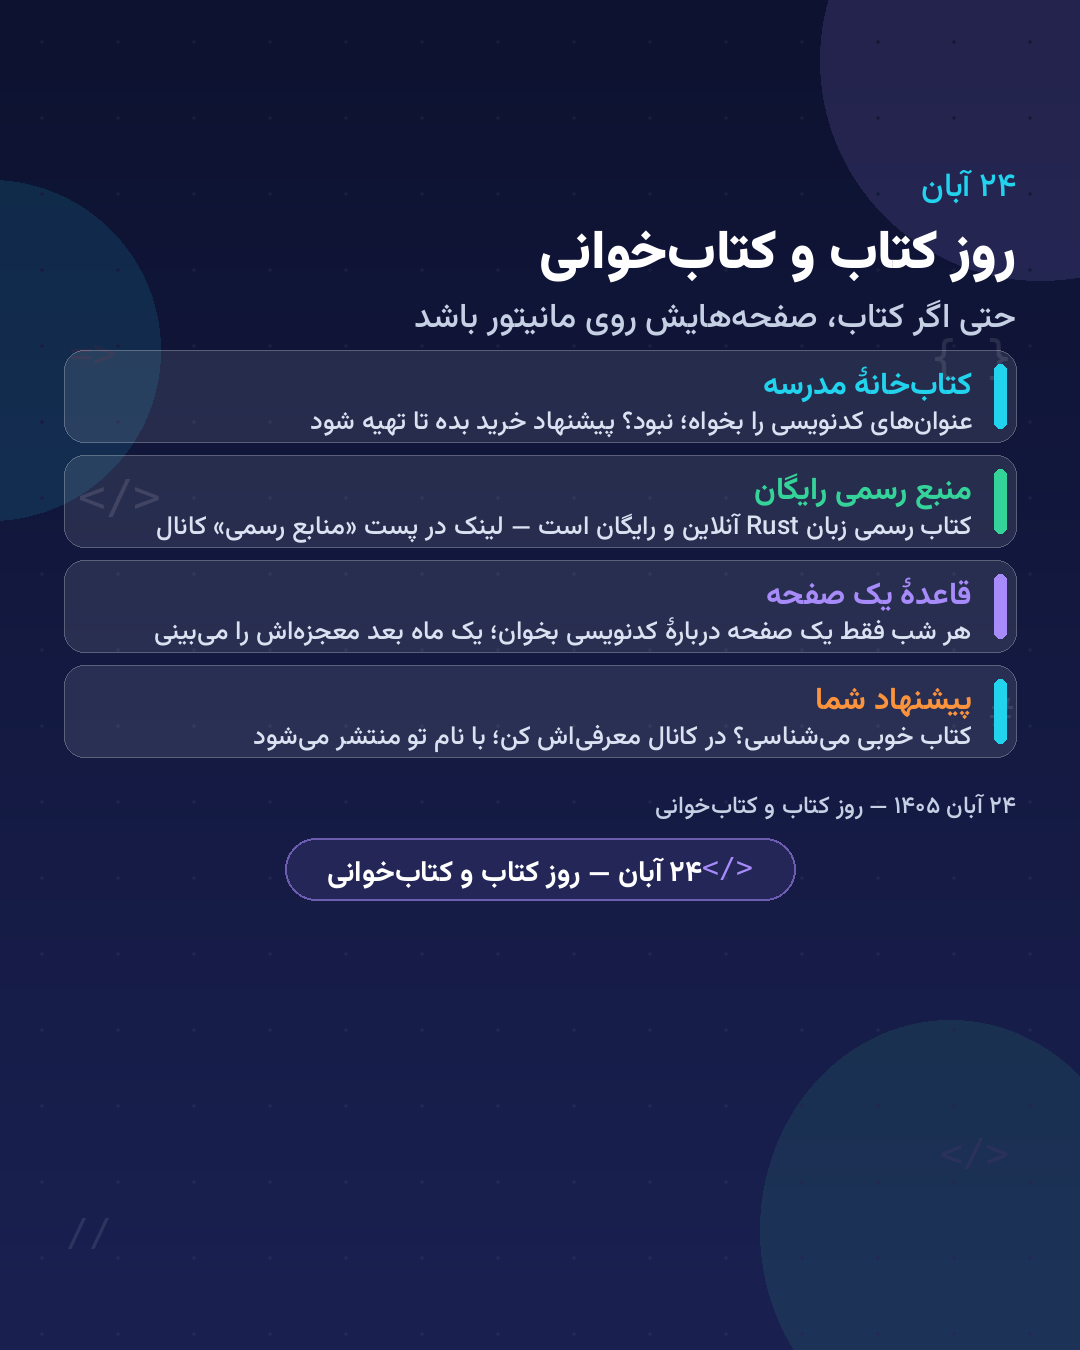
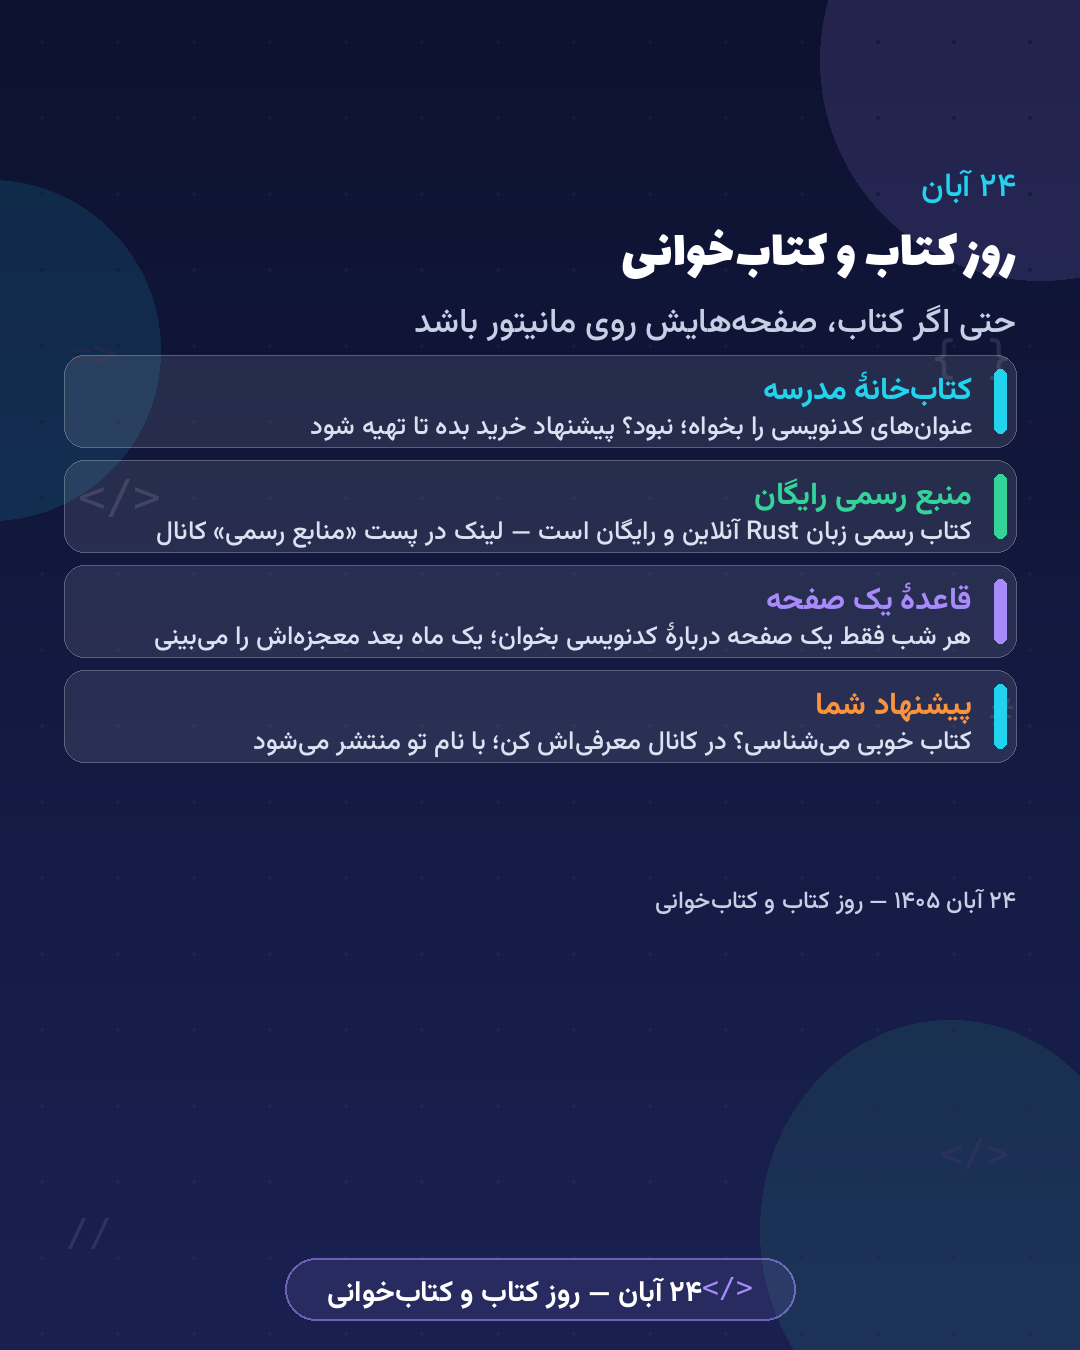
gardesh 16: font-e onvan-e poster ha -> Lalezar; chip-e daste az aks-ha hazf shod; caption-e bazi ba amoozesh-e kamel; pooster-e ketab baz-saz shod

diff --git a/channels/coding/content/inventory.md b/channels/coding/content/inventory.md
@@ -157,3 +157,18 @@ message_id) بهطور خودکار در `meta.json` همان پست و در 
 | — | بات | شاخهٔ web: mar-kodnevis.html جدید + **سوئیچ کش سرویسورکر به v2** (تا نصبهای قبلی نسخهٔ تازه بگیرند) | خلاقانه (نگهداری) | ✅ push (060d035) |
 
 **درسهای گردش:** ۱) تصویر AI هرگز برای متن فارسی — فونت خراب میشود؛ فقط پوستر خودمان. ۲) هر کتاب معرفیشده باید واقعی و قابلراستیآزی باشد. ۳) در صفحات HTML، اندازهگیری کانواس بعد از اعمال کلاسهای چیدمان انجام شود؛ فونت وزیرمتن از این پس در همهٔ بازیها جاسازی میشود.
+
+### ثبتهای ۱۴۰۵-۰۷-۳۱ (گردش ۱۶) — فونت عنوان پوسترها عوض شد (لالهزار) + چیپ دسته از عکسها حذف شد + آموزش کامل در متن پست بازی
+
+| شناسه | نویسنده | موضوع | دستهٔ داخلی | وضعیت |
+|---|---|---|---|---|
+| ۳۲ | بات | عکس بازی نسخهٔ ۳ — عنوان با وزیرمتنبلک (ظاهر ماژیکی/خراب به نظر سردبیر آمد) | خلاقانه | 🗑 **حذف شد (ok:true)** |
+| ۳۴ | بات | فایل بازی نسخهٔ ۳ | خلاقانه | 🗑 **حذف شد (ok:true)** |
+| ۳۵ | بات | عکس پست کتاب — همان فونت عنوان قدیمی | ترویجی | 🗑 **حذف شد (ok:true)** |
+| ۳۶ | بات | **بازی مار کدنویس — نسخهٔ ۴**: عنوان «مار کدنویس» در خود صفحهٔ بازی با فونت لالهزار (TTF کامل جاسازیشده — pyftsubset لالهزار را برای کروم میشکند؛ وزیرمتن ۴۰۰/۷۰۰ زیرمتن woff2 ماند) + کپشن با بخش کامل «آموزش بازی» (هدف، کنترل لمس/کیبورد، سه سرعت، رکورد، نصب PWA) | خلاقانه | 🔴 زنده — بازبینی چشمی شد (خانهها دایره، عنوان گرد و تمیز) |
+| ۳۸ | بات | فایل HTML نسخهٔ ۴ | خلاقانه | 🔴 زنده — آرشیو همگام |
+| ۳۹ | بات | پست کتاب Rust — همان متن و کتاب واقعی؛ فقط عکس بازسازی شد (عنوان لالهزار) | ترویجی | 🔴 زنده |
+| — | بات | کشف و رفع نقض قاعده: poster_lib نسخهٔ ۳ چیپ «نام دسته» را روی عکس رندر میکرد («اطلاعیه» در پوسترهای مناسبت صف) — **چیپ دسته کلاً از رندر حذف شد**؛ دسته فقط داخلی میماند. همهٔ عکسهای صف (مناسبت ×۵، مجله، variety ×۳، درس ۳) بدون چیپ بازسازی شدند | — | ✅ رفع شد |
+| — | بات | شاخهٔ web: عنوان بازی → لالهزار (TTF کامل base64)، کش سرویسورکر v2→v3 | خلاقانه (نگهداری) | ✅ push شاخهٔ web |
+
+**درسهای گردش:** ۱) فونت عنوان همهٔ پوسترهای آینده = لالهزار (`fa_title` در poster_lib)؛ وزیرمتن بلک کنار رفت. ۲) چیپ دسته هرگز نباید روی عکس پست بیاید — همین حالا از poster_lib حذف شد (قبلاً فقط در کپشن رعایت میشد). ۳) subset کردن لالهزار با pyftsubplot فونت را در کروم خراب میکند — برای لالهزار همیشه TTF کامل جاسازی شود. ۴) بعد از هر sendPhoto در بله، شناسهٔ پیامِ بعدی را هم کنترل کن (کپی دوباره: ۳۷ حذف شد).

diff --git a/channels/coding/content/queue/mansabet/abane13-roz-daneshamooz/text.md b/channels/coding/content/queue/mansabet/abane13-roz-daneshamooz/text.md
@@ -8,9 +8,11 @@
 - **تو هم میتوانی**: هر برنامهنویس بزرگی روزی دانشآموز بود و اولین خطش «Salam» بود
 
 فایل «13-aban.rs»:
-```rust
+```python
 let ayande = "دستهای تو";
 // آینده را همانها میسازند که امروز یاد میگیرند
 ```
 
 نکته: ۱۳ آبان ۱۴۰۵ — روز دانشآموز گرامی باد
+
+دستهٔ محتوا: اطلاعیه

diff --git a/channels/coding/content/queue/variety/kharazmi/text.md b/channels/coding/content/queue/variety/kharazmi/text.md
@@ -8,9 +8,11 @@
 - **کتاب الجبر**: منشأ واژهٔ جبر در ریاضیات جهان
 
 فایل «algorithm.rs»:
-```rust
+```python
 let algorithm = "مسیر گامبهگام حل مسئله";
 // هر برنامهٔ بزرگ، الگوریتمهای کوچک دارد
 ```
 
 نکته: الگوریتم یعنی دستورِ قدمبهقدم؛ پایهٔ هر زبانی که یاد بگیری
+
+دستهٔ محتوا: معرفی

diff --git a/channels/coding/content/queue/lessons/rust-dars-03-println-matn/text.md b/channels/coding/content/queue/lessons/rust-dars-03-println-matn/text.md
@@ -4,7 +4,7 @@
 حرف زدن با صفحه؛ با جایخالیهای {}
 
 فایل «src/main.rs»:
-```rust
+```python
 println!("Salam, donya!");
 println!("javab: {}", 42);
 println!("{} + {} = {}", 2, 3, 5);
@@ -19,3 +19,5 @@ javab: 42
 - **عدد و متن**: println! هر نوع دادهای را چاپ میکند
 
 نکته: تمرین: خودت را با دو خط println! معرفی کن
+
+دستهٔ محتوا: آموزشی

diff --git a/channels/coding/content/queue/mansabet/shabe-yalda/text.md b/channels/coding/content/queue/mansabet/shabe-yalda/text.md
@@ -8,10 +8,12 @@
 - **مرور سال**: آخر سال میلادی نزدیک است؛ ببین از مهر تا حالا چه یاد گرفتی و چه ساختی
 
 فایل «yalda.rs»:
-```rust
+```python
 let shab = "deraz";
 let kod = "garm";
 // شب بلند است، اما کدنویس از آن نمیترسد
 ```
 
 نکته: یلدا مبارک — ۳۰ آذر ۱۴۰۵
+
+دستهٔ محتوا: اطلاعیه

diff --git a/channels/coding/content/queue/mansabet/abane24-roz-ketab/text.md b/channels/coding/content/queue/mansabet/abane24-roz-ketab/text.md
@@ -9,3 +9,5 @@
 - **پیشنهاد شما**: کتاب خوبی میشناسی؟ در کانال معرفیاش کن؛ با نام تو منتشر میشود
 
 نکته: ۲۴ آبان ۱۴۰۵ — روز کتاب و کتابخوانی
+
+دستهٔ محتوا: اطلاعیه

diff --git a/channels/coding/content/queue/variety/poster-gorayesh/text.md b/channels/coding/content/queue/variety/poster-gorayesh/text.md
@@ -10,3 +10,5 @@
 - **بازیسازی**: بازی آموزشی با موتورهای بازیسازی
 
 نکته: تیم دو نفره — از یک منطقه، یک دوره و یک جنسیت (شرایط عمومی مسابقات)
+
+دستهٔ محتوا: ترویجی

diff --git a/channels/coding/content/queue/mansabet/fatemeh-sa-1448/text.md b/channels/coding/content/queue/mansabet/fatemeh-sa-1448/text.md
@@ -8,3 +8,5 @@
 - **به یاد او**: به رسم احترام، امروز کانال انجمن پرشور نیست؛ فقط این یادبود
 
 نکته: التماس دعا — انجمن علمیپژوهشی کدنویسی
+
+دستهٔ محتوا: اطلاعیه

diff --git a/channels/coding/content/queue/mansabet/azare16-roz-daneshjoo/text.md b/channels/coding/content/queue/mansabet/azare16-roz-daneshjoo/text.md
@@ -9,3 +9,5 @@
 - **شرط ورود**: کنکور ریاضی و تجربی؛ برنامهنویسی همین حالا هم برای درسهایت مفید است
 
 نکته: ۱۶ آذر ۱۴۰۵ — روز دانشجو
+
+دستهٔ محتوا: اطلاعیه

diff --git a/channels/coding/content/queue/magazine/aband-1405/text.md b/channels/coding/content/queue/magazine/aband-1405/text.md
@@ -9,3 +9,5 @@
 - **معرفی زبان**: C؛ ریشهای که ویندوز و لینوکس روی آن ساخته شد
 
 نکته: نسخهٔ کامل PDF در پیام بعدی همین کانال
+
+دستهٔ محتوا: ترویجی

diff --git a/channels/coding/content/queue/variety/manabe-rasmi/text.md b/channels/coding/content/queue/variety/manabe-rasmi/text.md
@@ -9,3 +9,5 @@
 - **اصول ما**: دقت، صبر و اعتماد فقط به منبع رسمی
 
 نکته: هر خبر مهم، با هشتگ اطلاعیه اینجا اعلام میشود
+
+دستهٔ محتوا: اطلاعیه
